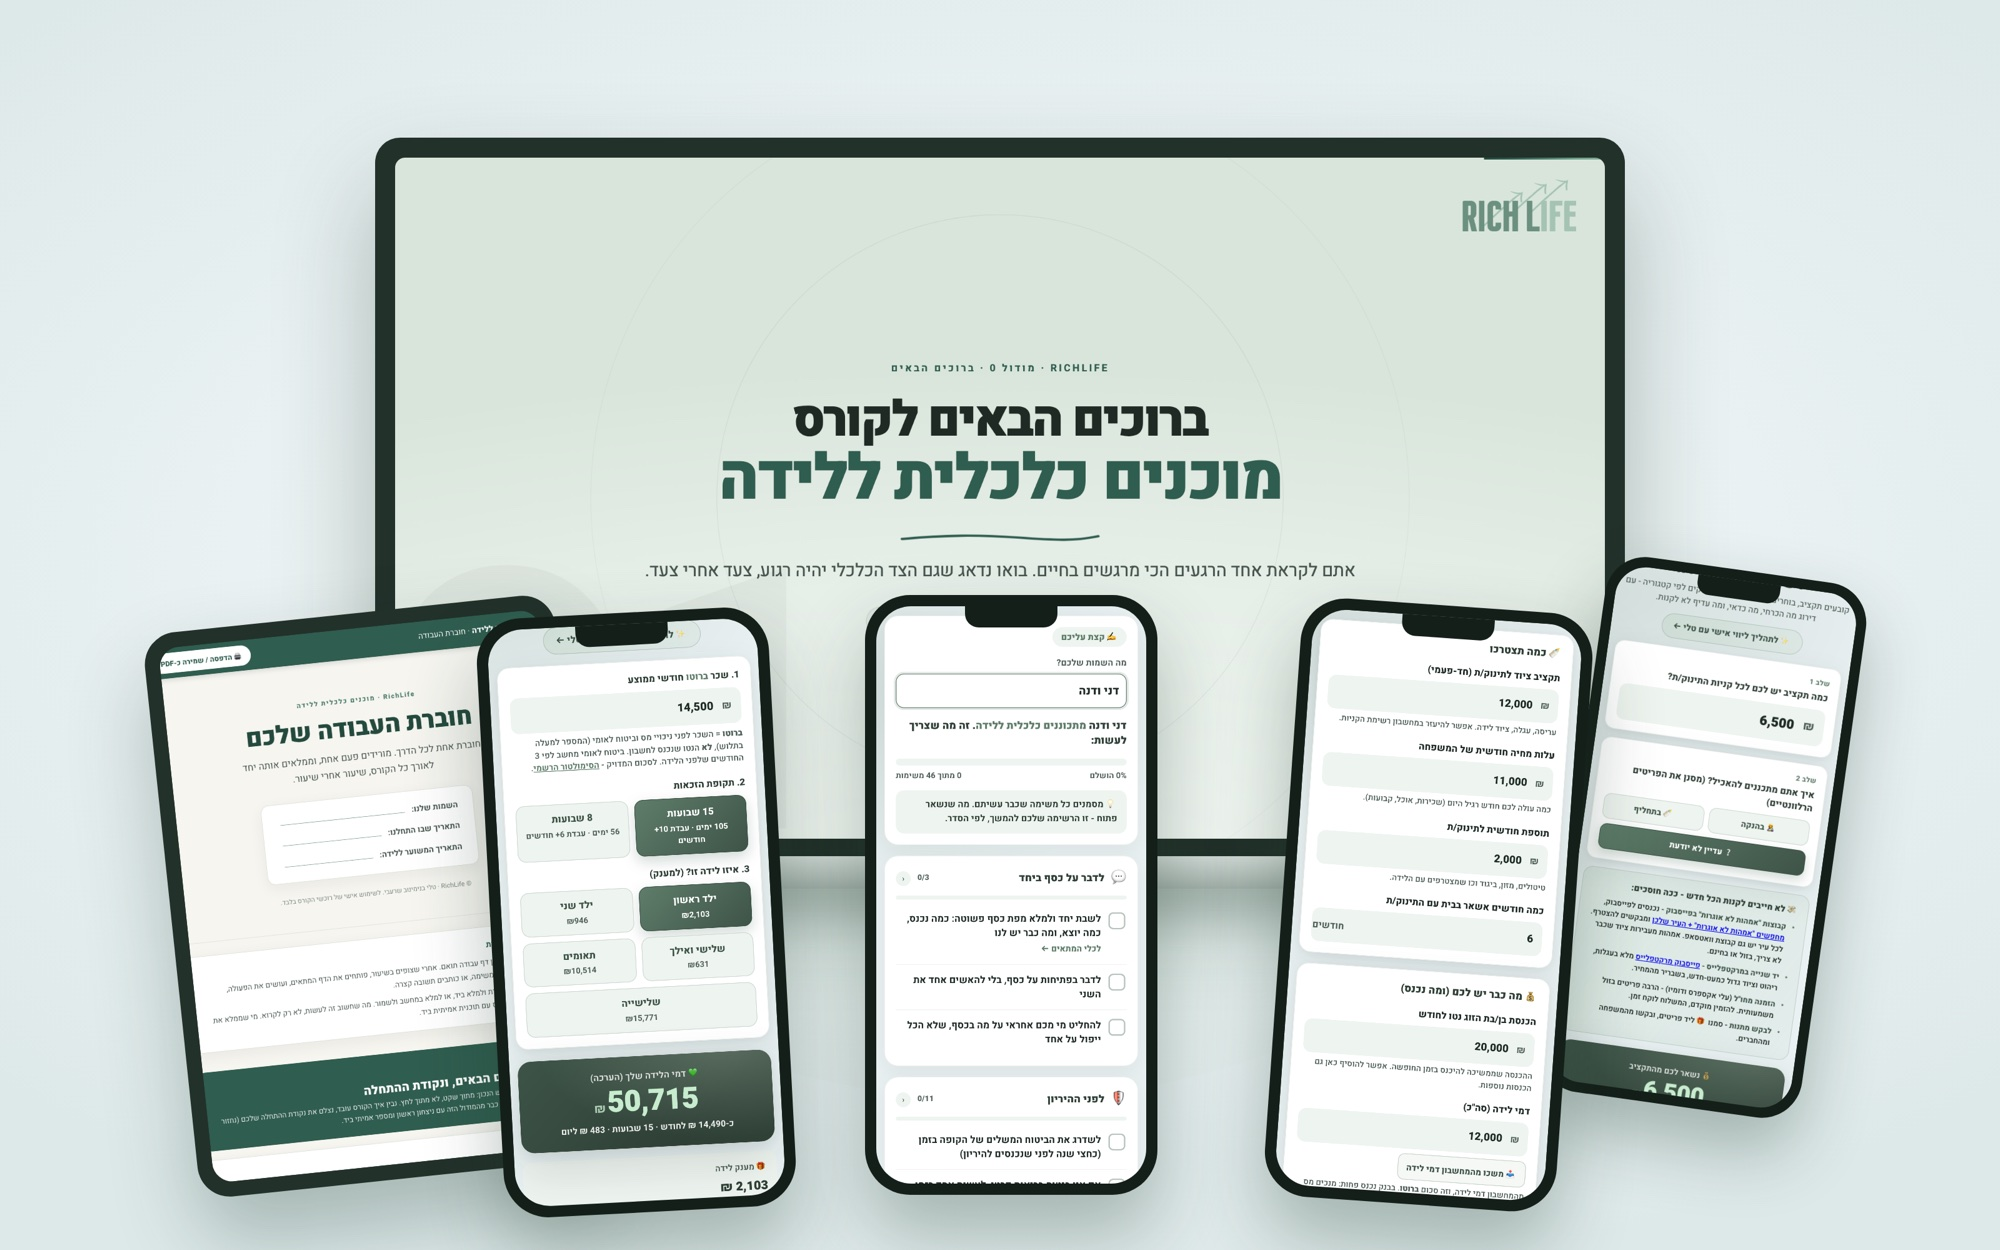
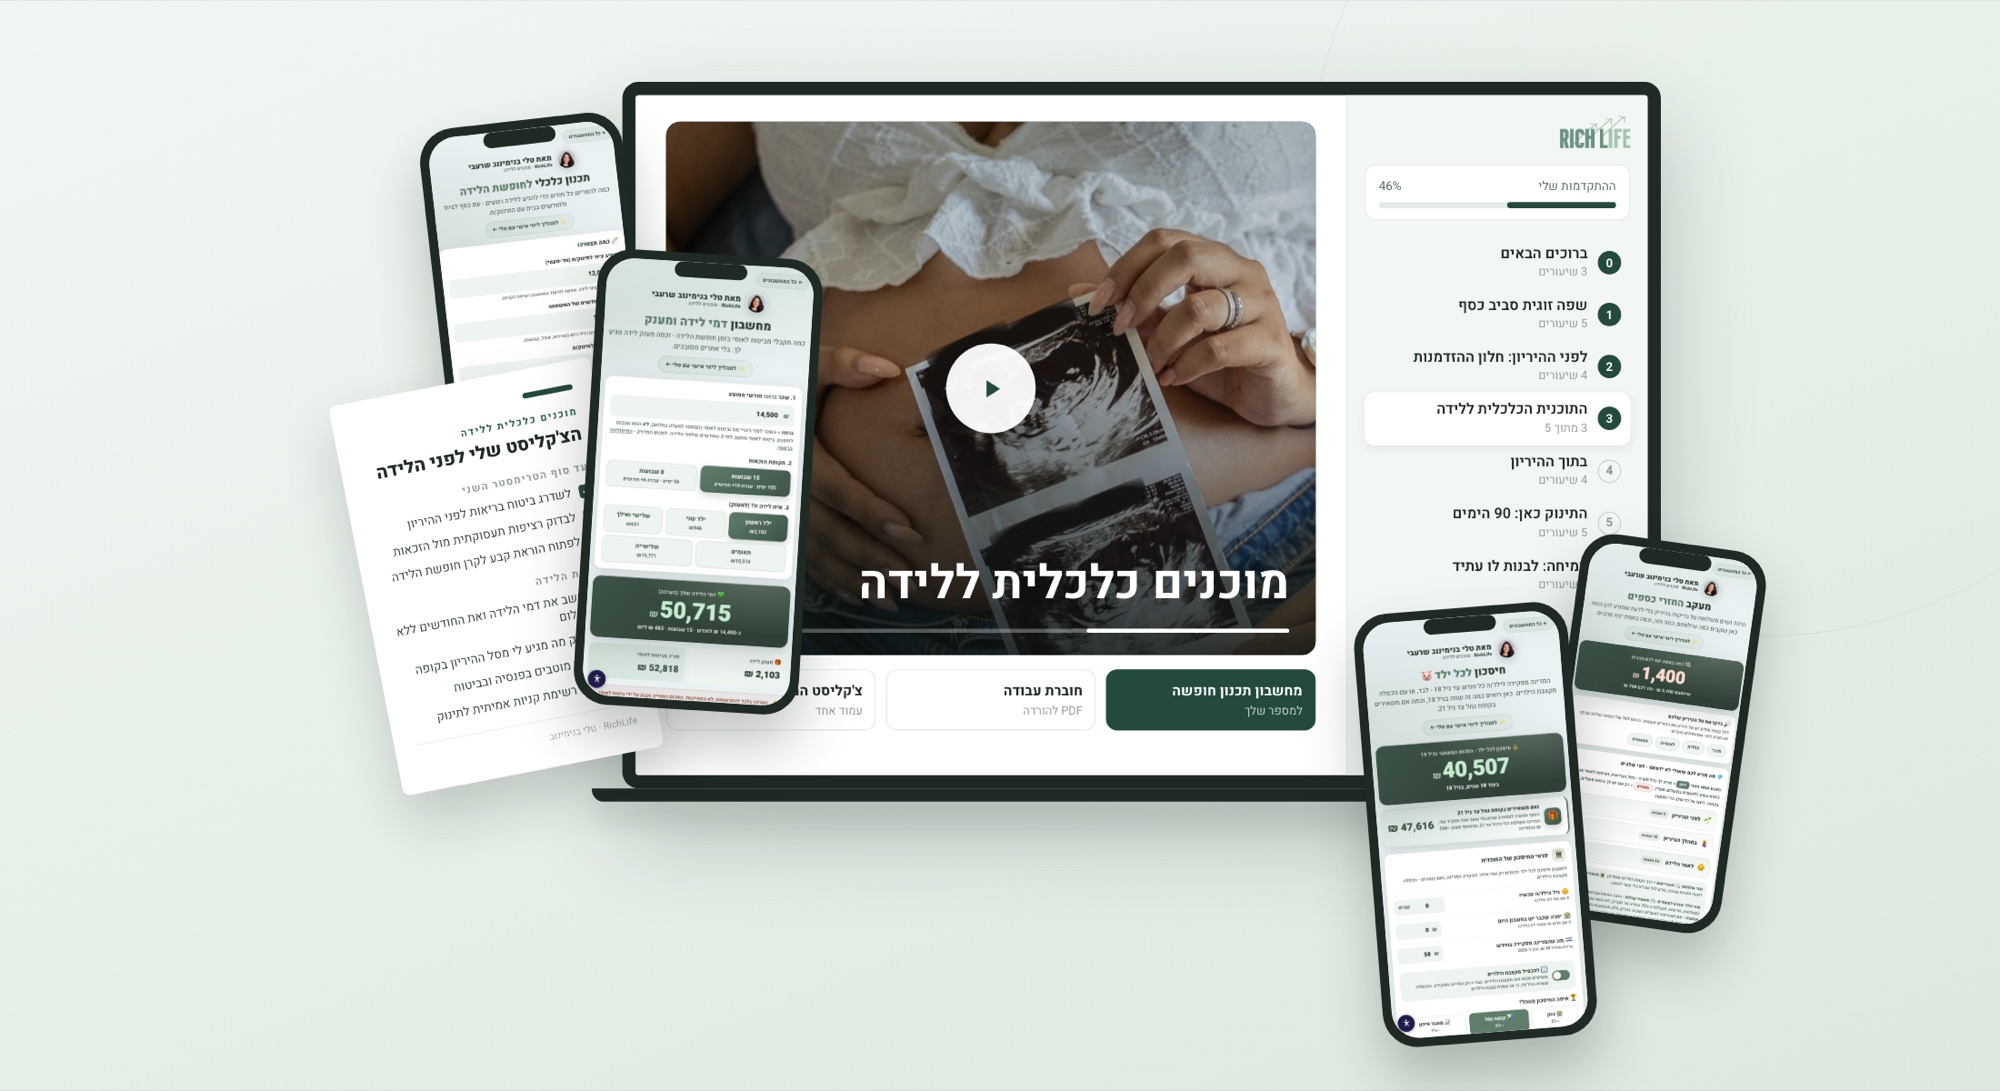
העריכות של טלי + המוקאפ שלה לפלטפורמת הקורס

diff --git a/index.html b/index.html
@@ -505,10 +505,12 @@ body { padding-bottom: 92px; }
     <span class="h1-warm">מוכנים כלכלית ללידה</span>
    </h1>
 
-   <p class="sub-promise" id="sub-promise-el">קורס דיגיטלי שמראה לכם <strong>מה לעשות בכל שלב</strong>, לפני, במהלך ואחרי ההיריון,<br>
-כדי <span class="neg">שלא תפספסו שום צעד שעולה עשרות אלפי שקלים</span>,<br>
+   <p class="sub-promise" id="sub-promise-el">קורס דיגיטלי שמראה לכם <strong>מה לעשות בכל שלב</strong>,<br>
+לפני, במהלך ואחרי ההיריון,<br>
+כדי <span class="neg">שלא תפספסו שום צעד שעולה עשרות אלפי שקלים</span><br>
 ותצאו עם תוכנית כלכלית ברורה שתאפשר לכם<br>
-<span class="warm">לבחור כמה זמן להישאר בבית עם הבייבי</span>, <span class="neg">ולא לחזור כי חייבים</span></p>
+<span class="warm">לבחור כמה זמן להישאר בבית עם הבייבי</span><br>
+<span class="neg">ולא לחזור כי חייבים</span></p>
 
    
 
@@ -516,7 +518,7 @@ body { padding-bottom: 92px; }
     <div class="hero-img-card hero-photo">
      <img src="images/ultrasound.jpg" alt="ידיים על בטן היריון מחזיקות תדפיס אולטרסאונד" loading="eager">
     </div>
-    <div class="hero-badge">🎓 קורס דיגיטלי · בקצב שלכם</div>
+    <div class="hero-badge">🎓 קורס דיגיטלי</div>
    </div>
   </div>
  </div>
@@ -593,7 +595,7 @@ body { padding-bottom: 92px; }
    <span class="pos">לבחור כמה זמן להישאר בבית עם הבייבי</span>, <span class="neg">ולא לחזור כי חייבים</span>.</p>
   </div>
 
-  <p class="solution-tail"><strong>וזה עובד גם אם אתם רק מדברים על זה, וגם אם כבר בטרימסטר שני.</strong><br>המטרה שלי פשוטה: שכל אמא תוכל לבחור להישאר בבית עוד קצת, <span class="pos">בלי שהבנק יחליט בשבילה</span>.</p>
+  
  </div>
 </section>
 
@@ -608,7 +610,7 @@ body { padding-bottom: 92px; }
  </div>
  
 
- <p class="how-intro">מהרגע שחושבים על תינוק ועד השנה הראשונה. בכל תחנה יש פעולה אחת שמכניסה לכם כסף לקרן, או שומרת עליו שם. ככל שגוללים - המסע נפתח.</p>
+ <p class="how-intro">מהרגע שחושבים על תינוק ועד השנה הראשונה.</p>
 
  <div class="journey" id="journey">
   <div class="journey-track" id="journey-track"><div class="journey-fill" id="journey-fill"></div></div>
@@ -675,8 +677,8 @@ body { padding-bottom: 92px; }
    <div class="j-node">4</div>
    <div class="j-card">
     <span class="j-emoji">🍼</span><span class="j-tag">לקראת הלידה</span>
-    <div class="j-h3">איך להאריך את חופשת הלידה שלך, ולוודא שהיא לא נגמרת אחרי שלושה חודשים</div>
-    <div class="j-text">המדינה משלמת 15 שבועות, ואת רוצה יותר. כאן מחליטים כמה חודשים את נשארת בבית ובונים את הכסף שיאפשר את זה, כך שהחופשה תיגמר כשאת מחליטה ולא כשהכסף נגמר. <strong>וככל שמתחילים מוקדם יותר, ככה יותר קל להגיע ליעד הרצוי.</strong></div>
+    <div class="j-h3">איך להאריך את חופשת הלידה שלך?</div>
+    <div class="j-text">כאן מחליטים כמה חודשים את נשארת בבית ובונים תוכנית שתאפשר את זה. <strong>וככל שמתחילים מוקדם יותר, ככה יותר קל להגיע ליעד הרצוי.</strong></div>
     <ul class="j-points">
      <li><strong>כמה כסף באמת ייכנס לך בחופשת הלידה?</strong></li>
      <li>כמה חודשים את יכולה להישאר בבית, וכמה עולה לכם כל חודש נוסף?</li>
@@ -695,7 +697,7 @@ body { padding-bottom: 92px; }
    <div class="j-card">
     <span class="j-emoji">🌱</span><span class="j-tag">אחרי הלידה</span>
     <div class="j-h3">איך בונים לו עתיד כלכלי טוב</div>
-    <div class="j-text">בשבועות הראשונים אתם לא ישנים, וזו בדיוק התקופה שבה נסגרים כמה חלונות שלא נפתחים שוב. לכן את הרשימה הזו כותבים עכשיו, ולא בשלוש לפנות בוקר.</div>
+    <div class="j-text">כל מה שחשוב לדאוג לו ברגע שהבייבי נולד.</div>
     <ul class="j-points">
      <li>מה <strong>חייבים לעשות בימים הראשונים</strong>, כדי שהבייבי יהיה מוגן?</li>
      <li>יש ביטוח שמגיע לו <strong>בחינם</strong>. צירפנו אותו?</li>
@@ -703,7 +705,6 @@ body { padding-bottom: 92px; }
      <li><strong>מה עושים עם החיסכון לכל ילד?</strong> בחירה אחת שם שווה לו עשרות אלפי שקלים</li>
      <li>ואיך מייצרים לו חיסכון נוסף מעבר לזה, מסכום קטן וקבוע כל חודש?</li>
      <li>איזה כסף <strong>המדינה חייבת לנו</strong> אחרי הלידה, שרק צריך לבקש?</li>
-     <li><strong>ומגיע לכם כסף בחזרה גם ממס הכנסה</strong>, ורוב ההורים לא יודעים לבקש אותו</li>
      <li>ואיך נראה התקציב המשפחתי החדש, <span class="neg">בלי להיכנס למינוס</span> בגלל הרחבת המשפחה?</li>
     </ul>
 
@@ -850,7 +851,7 @@ body { padding-bottom: 92px; }
   </div>
 
   <div class="mockup-wrap fadeup-ready mockup-card">
-   <img src="images/course-mockup.jpg" alt="הקורס על המסכים: מודול הווידאו במחשב, חוברת העבודה בטאבלט, והצ'ק-ליסט והמחשבונים בנייד" loading="lazy">
+   <img src="images/course-mockup.jpg" alt="פלטפורמת הקורס: שיעורי הווידאו לפי מודולים, המחשבונים, הצ'ק-ליסט וחוברת העבודה" loading="lazy">
   </div>
 
   <ul class="inc-list">
